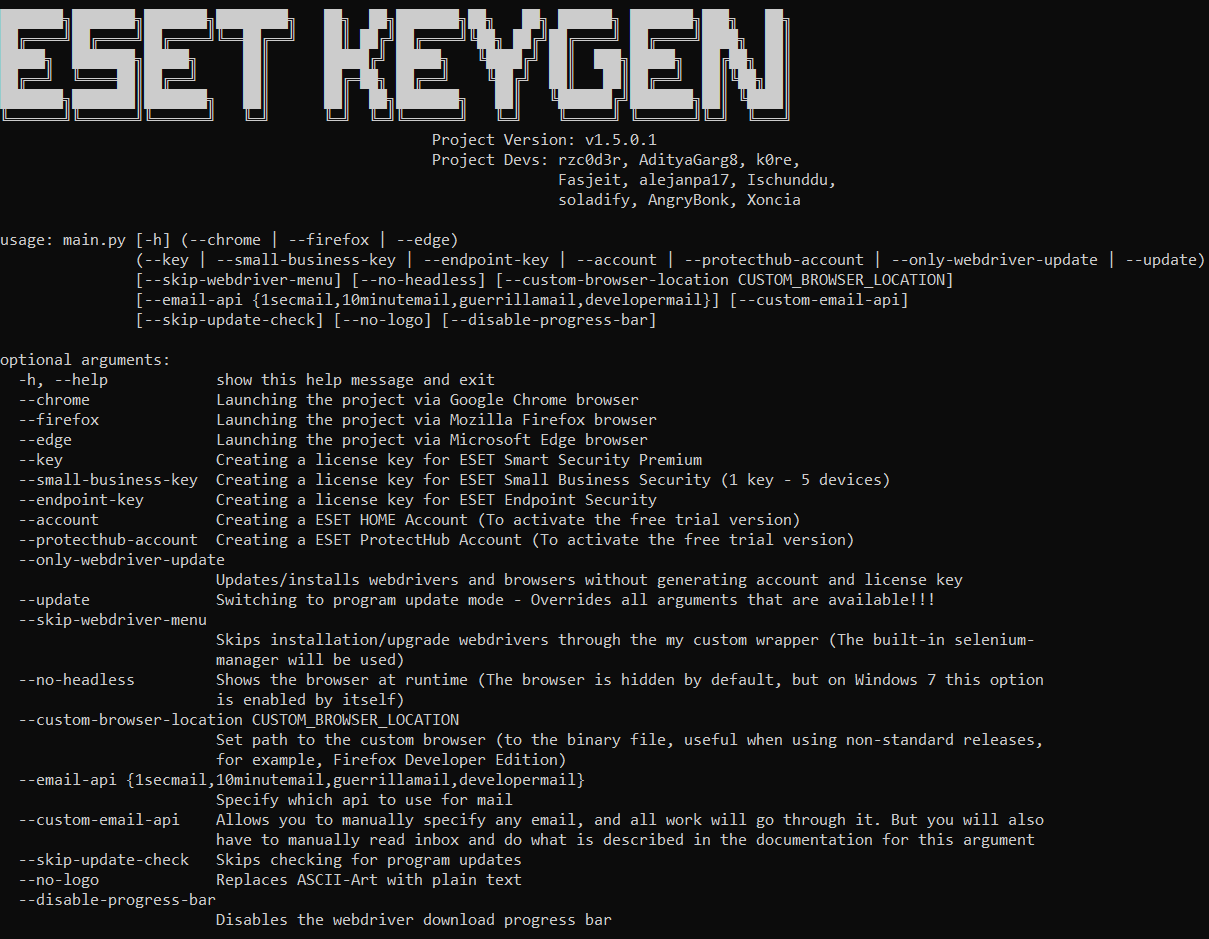
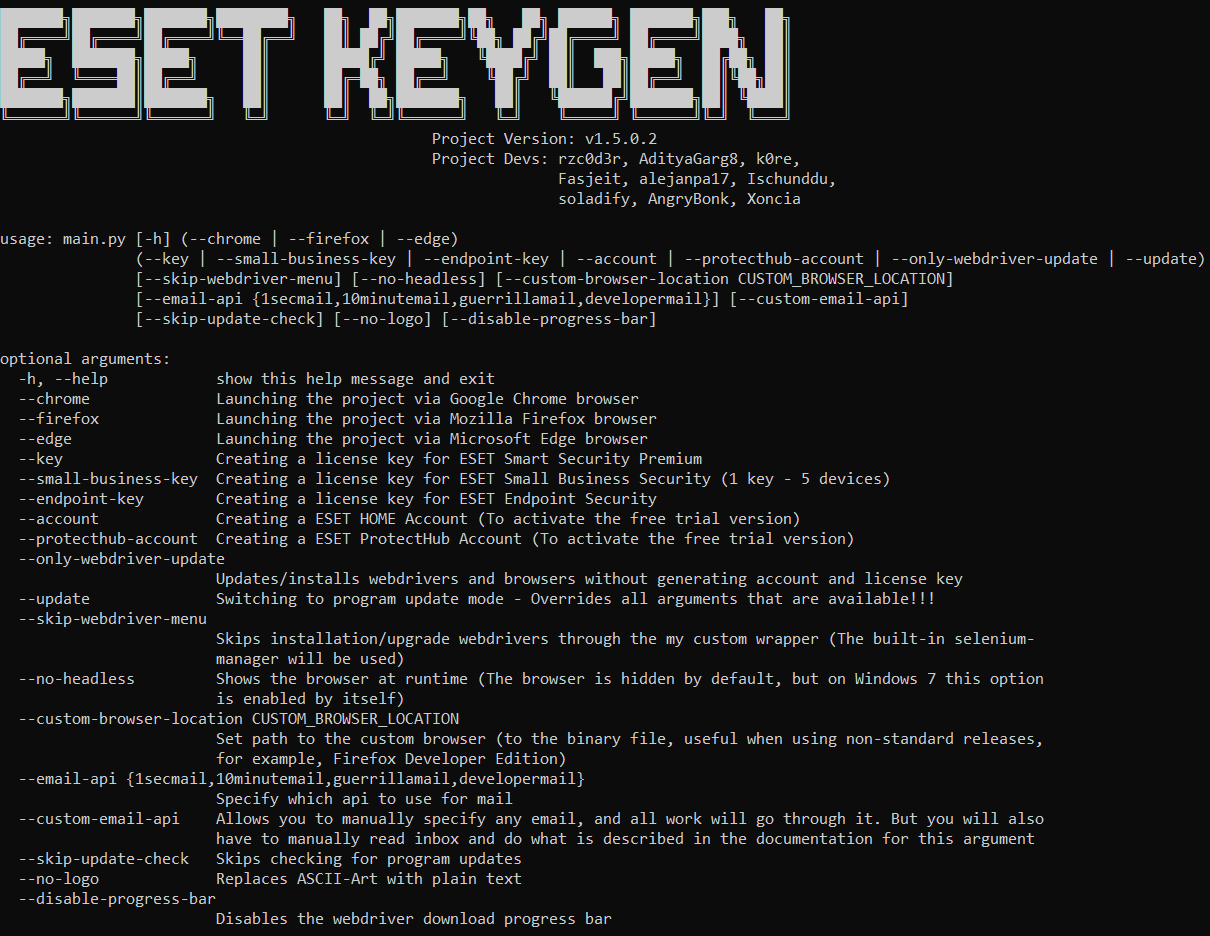
Update to v1.5.0.2
1. Added check for successful initialization of Email API, now you will see the message "Mail registration was not completed, try using a different Email API!" if the initialization did not pass to the end

diff --git a/main.py b/main.py
@@ -18,10 +18,9 @@ import datetime
 import argparse
 import time
 import sys
-import os
 import re
 
-VERSION = ['v1.5.0.1', 1501]
+VERSION = ['v1.5.0.2', 1502]
 LOGO = f"""
 ███████╗███████╗███████╗████████╗   ██╗  ██╗███████╗██╗   ██╗ ██████╗ ███████╗███╗   ██╗
 ██╔════╝██╔════╝██╔════╝╚══██╔══╝   ██║ ██╔╝██╔════╝╚██╗ ██╔╝██╔════╝ ██╔════╝████╗  ██║
@@ -272,8 +271,11 @@ def main():
                 email_obj = EMAIL_API_CLASSES[args['email_api']](driver)
             else: # real APIs without the need for a browser
                 email_obj = EMAIL_API_CLASSES[args['email_api']]()
-            email_obj.init()
-            console_log('Mail registration completed successfully!', OK)
+            try:
+                email_obj.init()
+                console_log('Mail registration completed successfully!', OK)
+            except:
+                pass
         else:
             email_obj = CustomEmailAPI()
             while True:
@@ -288,80 +290,83 @@ def main():
                         raise RuntimeError
                 except:
                     console_log('Invalid email syntax!!!', ERROR)
-        eset_password = dataGenerator(10)
         
-        # ESET HOME
-        if args['account'] or args['key'] or args['small_business_key']:
-            ER_obj = ER(email_obj, eset_password, driver)
-            ER_obj.createAccount()
-            ER_obj.confirmAccount()
-            output_line = '\n'.join([
-                    '',
-                    '-------------------------------------------------',
-                    f'Account Email: {email_obj.email}',
-                    f'Account Password: {eset_password}',
-                    '-------------------------------------------------',
-                    ''
-            ])
-            output_filename = 'ESET ACCOUNTS.txt'
-            if args['key'] or args['small_business_key']:
-                output_filename = 'ESET KEYS.txt'
-                EK_obj = EK(email_obj, driver, 'ESET HOME' if args['key'] else 'SMALL BUSINESS')
-                EK_obj.sendRequestForKey()
-                license_name, license_key, license_out_date = EK_obj.getLicenseData()
+        if email_obj.email is not None:
+            eset_password = dataGenerator(10)
+            # ESET HOME
+            if args['account'] or args['key'] or args['small_business_key']:
+                ER_obj = ER(email_obj, eset_password, driver)
+                ER_obj.createAccount()
+                ER_obj.confirmAccount()
                 output_line = '\n'.join([
-                    '',
-                    '-------------------------------------------------',
-                    f'Account Email: {email_obj.email}',
-                    f'Account Password: {eset_password}',
-                    '',
-                    f'License Name: {license_name}',
-                    f'License Key: {license_key}',
-                    f'License Out Date: {license_out_date}',
-                    '-------------------------------------------------',
-                    ''
+                        '',
+                        '-------------------------------------------------',
+                        f'Account Email: {email_obj.email}',
+                        f'Account Password: {eset_password}',
+                        '-------------------------------------------------',
+                        ''
                 ])
-                
-        # ESET ProtectHub
-        elif args['protecthub_account'] or args['endpoint_key']:
-            EPHR_obj = EPHR(email_obj, eset_password, driver)
-            EPHR_obj.createAccount()
-            EPHR_obj.confirmAccount()
-            EPHR_obj.activateAccount()
-            output_line = '\n'.join([
-                    '',
-                    '---------------------------------------------------------------------',
-                    f'ESET ProtectHub Account Email: {email_obj.email}',
-                    f'ESET ProtectHub Account Password: {eset_password}',
-                    '---------------------------------------------------------------------',
-                    ''
-            ])    
-            output_filename = 'ESET ACCOUNTS.txt'
-            if args['endpoint_key']:
-                output_filename = 'ESET KEYS.txt'
-                EPHK_obj = EPHK(email_obj, eset_password, driver)
-                license_name, license_key, license_out_date = EPHK_obj.getLicenseData()
-                if license_name is not None:
+                output_filename = 'ESET ACCOUNTS.txt'
+                if args['key'] or args['small_business_key']:
+                    output_filename = 'ESET KEYS.txt'
+                    EK_obj = EK(email_obj, driver, 'ESET HOME' if args['key'] else 'SMALL BUSINESS')
+                    EK_obj.sendRequestForKey()
+                    license_name, license_key, license_out_date = EK_obj.getLicenseData()
                     output_line = '\n'.join([
                         '',
-                        '---------------------------------------------------------------------',
-                        f'ESET ProtectHub Account Email: {email_obj.email}',
-                        f'ESET ProtectHub Account Password: {eset_password}',
+                        '-------------------------------------------------',
+                        f'Account Email: {email_obj.email}',
+                        f'Account Password: {eset_password}',
                         '',
                         f'License Name: {license_name}',
                         f'License Key: {license_key}',
                         f'License Out Date: {license_out_date}',
-                        '---------------------------------------------------------------------',
+                        '-------------------------------------------------',
                         ''
                     ])
+                    
+            # ESET ProtectHub
+            elif args['protecthub_account'] or args['endpoint_key']:
+                EPHR_obj = EPHR(email_obj, eset_password, driver)
+                EPHR_obj.createAccount()
+                EPHR_obj.confirmAccount()
+                EPHR_obj.activateAccount()
+                output_line = '\n'.join([
+                        '',
+                        '---------------------------------------------------------------------',
+                        f'ESET ProtectHub Account Email: {email_obj.email}',
+                        f'ESET ProtectHub Account Password: {eset_password}',
+                        '---------------------------------------------------------------------',
+                        ''
+                ])    
+                output_filename = 'ESET ACCOUNTS.txt'
+                if args['endpoint_key']:
+                    output_filename = 'ESET KEYS.txt'
+                    EPHK_obj = EPHK(email_obj, eset_password, driver)
+                    license_name, license_key, license_out_date = EPHK_obj.getLicenseData()
+                    if license_name is not None:
+                        output_line = '\n'.join([
+                            '',
+                            '---------------------------------------------------------------------',
+                            f'ESET ProtectHub Account Email: {email_obj.email}',
+                            f'ESET ProtectHub Account Password: {eset_password}',
+                            '',
+                            f'License Name: {license_name}',
+                            f'License Key: {license_key}',
+                            f'License Out Date: {license_out_date}',
+                            '---------------------------------------------------------------------',
+                            ''
+                        ])
 
-        # end
-        console_log(output_line)
-        date = datetime.datetime.now()
-        f = open(f"{str(date.day)}.{str(date.month)}.{str(date.year)} - "+output_filename, 'a')
-        f.write(output_line)
-        f.close()
-    
+            # end
+            console_log(output_line)
+            date = datetime.datetime.now()
+            f = open(f"{str(date.day)}.{str(date.month)}.{str(date.year)} - "+output_filename, 'a')
+            f.write(output_line)
+            f.close()
+        else:
+            console_log('Mail registration was not completed, try using a different Email API!\n', ERROR)
+        
     except Exception as E:
         traceback_string = traceback.format_exc()
         if str(type(E)).find('selenium') and traceback_string.find('Stacktrace:') != -1: # disabling stacktrace output

diff --git a/modules/EmailAPIs.py b/modules/EmailAPIs.py
@@ -52,7 +52,7 @@ class OneSecEmailAPI(object):
 class DeveloperMailAPI(object):
     def __init__(self):
         self.class_name = 'developermail'
-        self.email = ''
+        self.email = None
         self.email_name = ''
         self.headers = {}
         self.api_url = 'https://www.developermail.com/api/v1'
